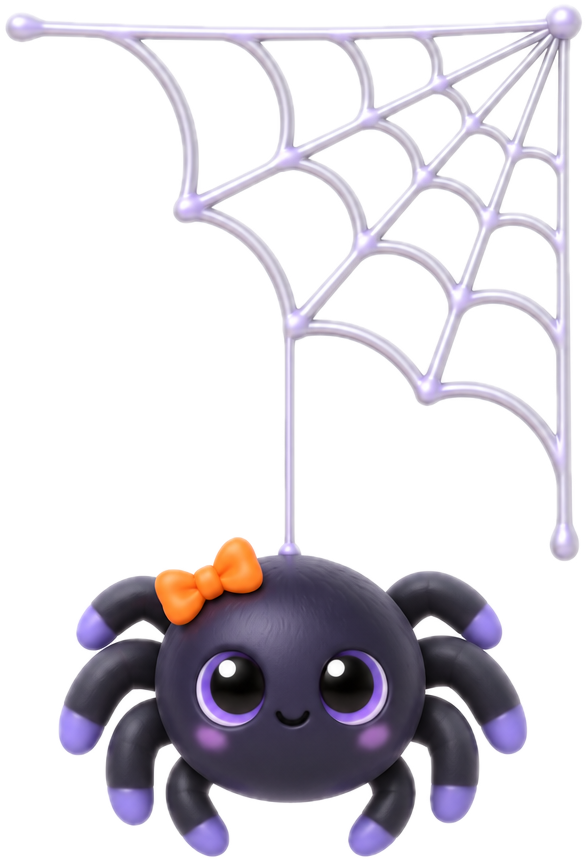
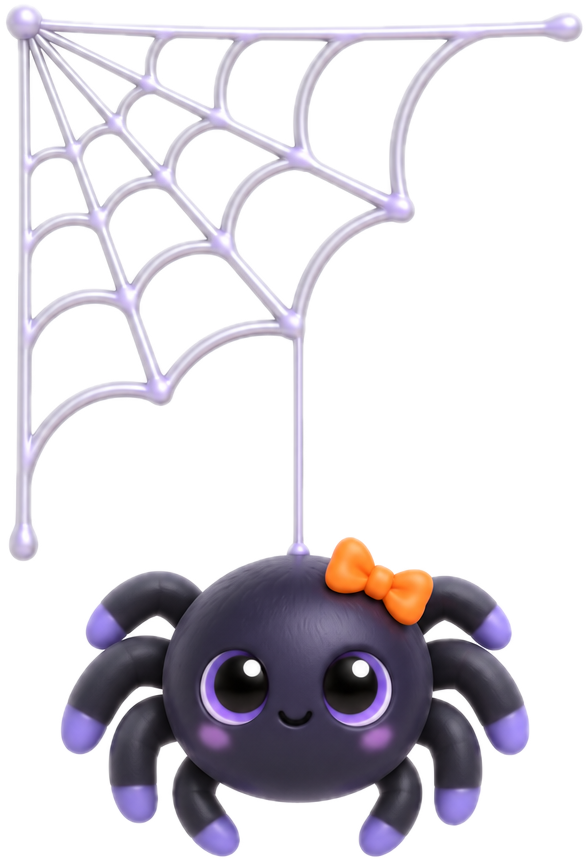
fix(сезон): нарисованные мыши стёрты с баннера, паутина растёт из угла, привидение левее текста
Летают только живые мыши — висящие на картинке были другого цвета.

Changed region(s): [[0.0, 0.0, 1.0, 0.9954]]

diff --git a/src/components/season/season.css b/src/components/season/season.css
@@ -153,7 +153,8 @@ html[data-season] .season-hero-row { position: relative; z-index: 2; margin-top:
 .season-corner--potions { right: -6px; bottom: -44px; height: 104px; transform: rotate(8deg); }
 
 /* ── Пустой день ──────────────────────────────────────────────────────── */
-.season-empty { display: flex; align-items: center; gap: 12px; text-align: left; }
+.season-empty { display: flex; align-items: center; gap: 28px; text-align: left; margin-left: -28px; }
+/* Привидение левее, текст дальше от него: группа по центру карточки, но с перекосом влево. */
 .season-empty__ghost { width: auto; flex-shrink: 0; pointer-events: none; }
 .season-empty__ghost { height: 86px; }
 .season-empty__title { font-size: 15px; font-weight: 650; color: var(--color-text); margin: 0; }
